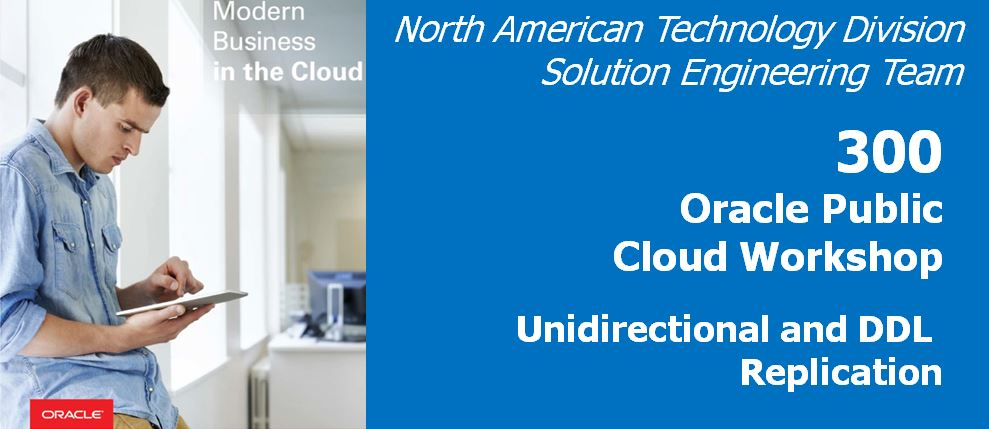
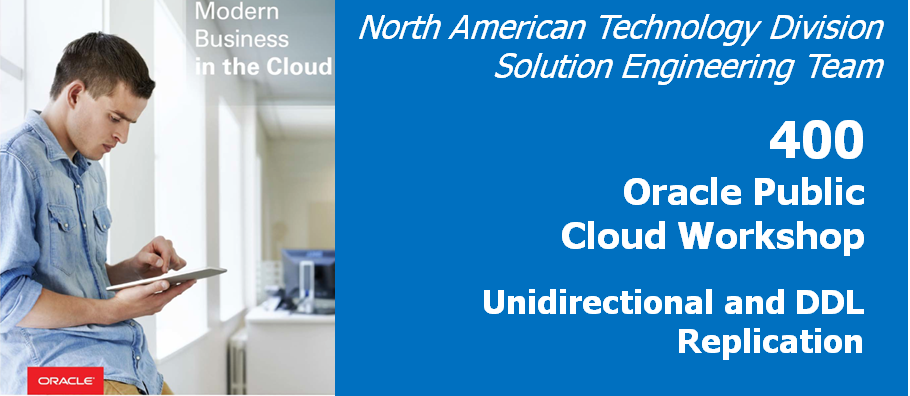
commit

diff --git a/workshops/gg/CloudWorkshop_GoldenGate Microservices_500.md b/workshops/gg/CloudWorkshop_GoldenGate Microservices_500.md
@@ -1,4 +1,4 @@
-![](images/300/Lab300_image100.PNG)
+![](images/500/Lab500_1.PNG)
 
 Update: May 17, 2018
 
